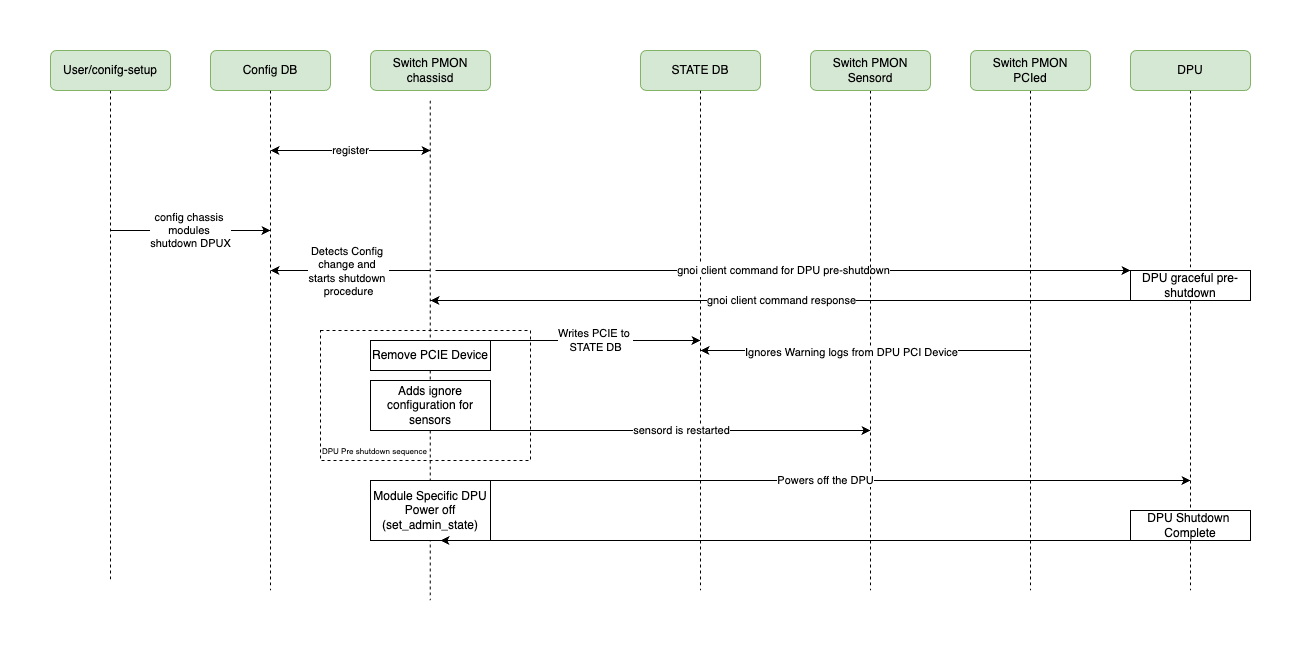
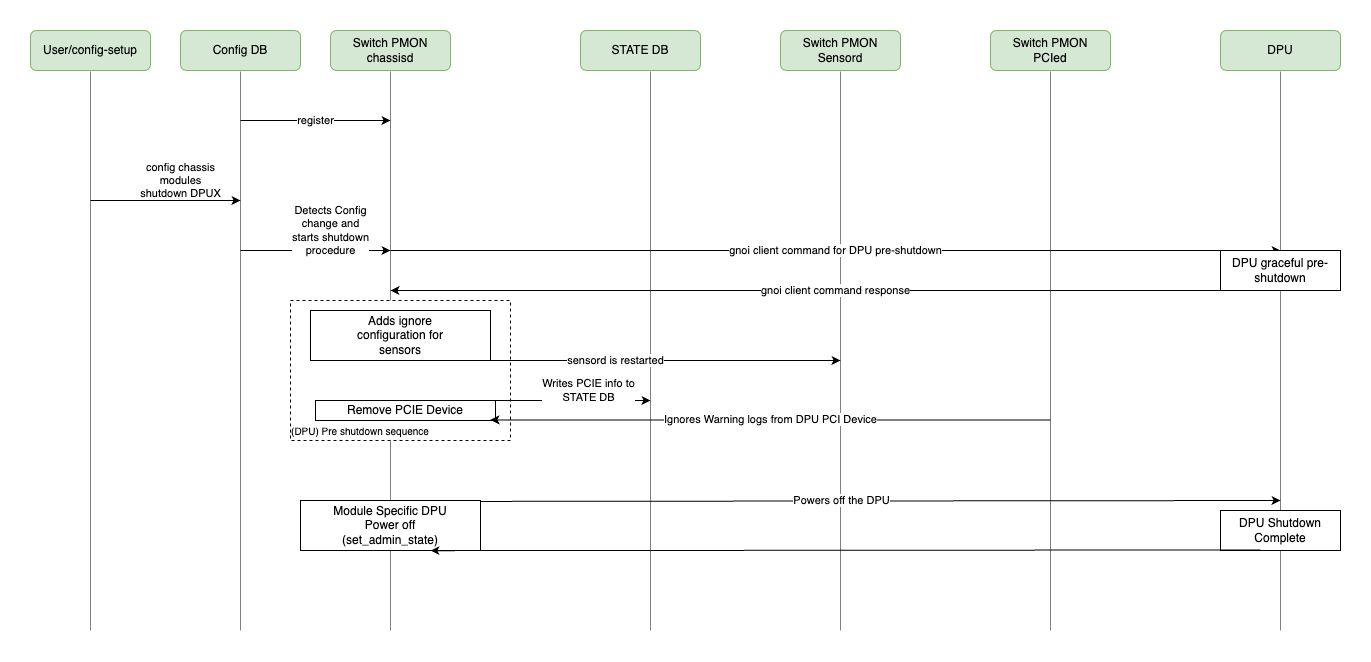
Changes as per discussion

diff --git a/doc/smart-switch/pmon/smartswitch-pmon.md b/doc/smart-switch/pmon/smartswitch-pmon.md
@@ -92,10 +92,11 @@ When a DPU module's admin state is changed from "down" to "up", the following po
 
 1. **PCI Device Rescan**: The `handle_pci_rescan()` function is called to rescan and reattach PCI devices.
 
-    This function calls  the platform specific `pci_reattach()` is called first, and then `get_pci_bus_info()` to get all the PCIe devices associated with the specific DPU, and removes `PCIE_DETACH_INFO` key in STATE_DB relevant to the device.  If either `get_pci_bus_info()` or `pci_reattach()` is not implemented for the specific platform, there is a fallback implemented to obtain the `bus_info` from platform.json file and remove the relevant information to STATE_DB and perform platform independent pcie rescan  (`echo 1 > /sys/bus/pci/rescan`)
+    This function calls  the platform specific `pci_reattach()` is called first, and then `get_pci_bus_info()` to get all the PCIe devices associated with the specific DPU, and removes `PCIE_DETACH_INFO` key in STATE_DB relevant to the device.
+
 2. **Sensor Addition**: The `handle_sensor_addition()` function is called to handle sensor-related setup.
 
-    If sensors ignore configuration exists in the sensord folder  `/etc/sensors.d/ignore_{module_name}.conf` , the relevant sensord ignore configuration has to be removed and then we restart the sensord, if such file does not exist, the sensord restart for this module is skipped
+    If sensors ignore configuration exists in the sensord folder  `/etc/sensors.d/ignore_sensors_{module_name}.conf` , the relevant sensord ignore configuration has to be removed and then we restart the sensord, if such file does not exist, the sensord restart for this module is skipped
  
 ##### Function Signatures
 
@@ -205,10 +206,10 @@ When a DPU module's admin state is set to "down", the following pre-shutdown pro
 
 * **PCI Device Removal**: The `handle_pci_removal()` function is called to properly detach PCI devices from the system.
 
-    This function calls `get_pci_bus_info()` to get all the PCIe devices associated with the specific DPU, and adds `PCIE_DETACH_INFO` key in STATE_DB relevant to the device, after all the device information is added to STATE_DB, the platform specific `pci_detach()` is called.  If either `get_pci_bus_info()` or `pci_detach()` is not implemented for the specific platform, there is a fallback implemented to obtain the `bus_info` from platform.json file and add the relevant information to STATE_DB and perform platform independent pcie detachment  (`echo 1 > /sys/bus/pci/devices/{pci_bus}/remove`)
+    This function calls `get_pci_bus_info()` to get all the PCIe devices associated with the specific DPU, and adds `PCIE_DETACH_INFO` key in STATE_DB relevant to the device, after all the device information is added to STATE_DB, the platform specific `pci_detach()` is called.  
 * **Sensor Removal**: The `handle_sensor_removal()` function is called to handle sensor-related cleanup.
 
-    If sensors have to be ignored on DPU shutdown, the relevant sensord ignore configuration has to be added to the device folder in sonic-buildimage, `sonic-buildimage/device/<Platform>/<device>/dpu_ignore_conf`, after build this is moved to the following folder in PMON: `/usr/share/sonic/platform/dpu_ignore_conf`. The ignore configuration for a specific DPU should follow the following format: `ignore_<Module_Name>.conf`. If this file exists for a specific DPU Module, then this is copied to `/etc/sensors.d/ignore_{module_name}.conf` and then we restart sensord. If the file does not exist, then we skip further processing for this function 
+    If sensors have to be ignored on DPU shutdown, the relevant sensord ignore configuration has to be added to the device folder in sonic-buildimage, `sonic-buildimage/device/<Platform>/<device>/module_sensor_ignore_conf`, after build this is moved to the following folder in PMON: `/usr/share/sonic/platform/module_sensor_ignore_conf`. The ignore configuration for a specific DPU should follow the following format: `ignore_sensors_<Module_Name>.conf`. If this file exists for a specific DPU Module, then this is copied to `/etc/sensors.d/ignore_sensors_{module_name}.conf` and then we restart sensord. If the file does not exist, then we skip further processing for this function 
 
 ##### Function Signatures
 
@@ -238,7 +239,7 @@ def handle_sensor_removal(self):
     """
     Handles sensor removal by copying ignore configuration file from platform folder
     looks for ignore configuration in: 
-    /usr/share/sonic/platform/dpu_ignore_conf/ignore_{module_name}.conf
+    /usr/share/sonic/platform/module_sensor_ignore_conf/ignore_sensors_{module_name}.conf
     to sensors.d directory and restarting sensord if the file exists.
 
     Returns:
@@ -291,8 +292,8 @@ def set_admin_state(self, up):
         module.handle_pci_rescan()
         self.handle_sensor_addition()
     else:
-        self.handle_pci_removal()
         self.handle_sensor_removal()
+        self.handle_pci_removal()
         module.set_admin_state(down)
     return
 ```
@@ -302,7 +303,7 @@ def set_admin_state(self, up):
 * The GNOI server runs on the DPU even after the DPU is pre-shutdown and listens until the graceful shutdown finishes.
 * The host sends a GNOI signal to shutdown the DPU. The DPU does a graceful-shutdown if not already done and sends an ack back to the host.
 * Upon receiving the ack or on a timeout the host may trigger the switch PMON vendor API to shutdown the DPU.
-* The PCIE device is added to `PCIE_DETACH_INFO` table and we remove the pcie device. If a vendor specific API is not defined, detachment is done via sysfs (echo 1 > /sys/bus/pci/devices/XXXX:XX:XX.X/remove).
+* The PCIE device is added to `PCIE_DETACH_INFO` table and we remove the pcie device. 
 * sensord is restarted if we need to ignore some sensors
 * Vendor specific DPU shutdown is initiated
 * The DPU upon receiving the shutdown message will do a graceful shutdown and send an ack back. The DPU graceful shutdown is vendor specific. The DPU power will be turned off after the graceful shutdown. In case of timeout the platform will force power down.
